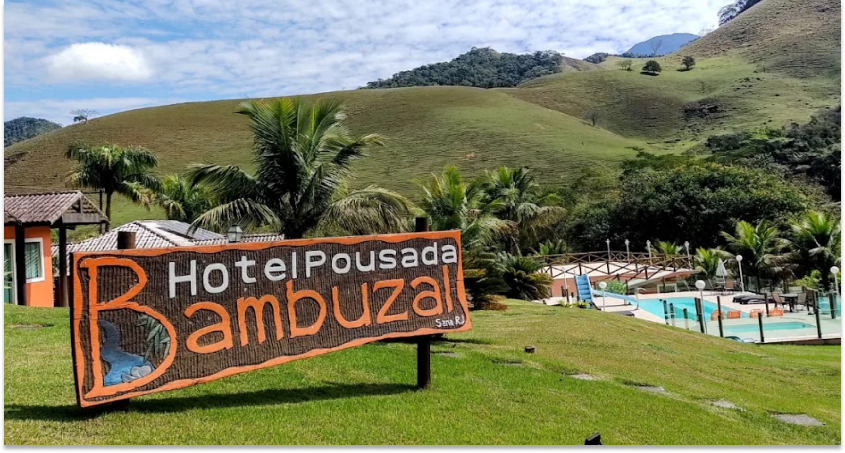
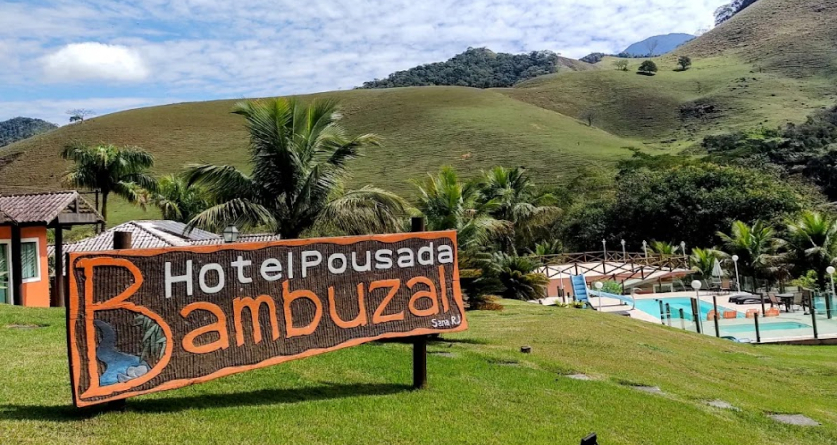
resize images

diff --git a/src/components/About.jsx b/src/components/About.jsx
@@ -44,7 +44,7 @@ export default function About() {
           </div>
         </div>
 
-        <div style={{display:'flex', justifyContent:'space-around', marginTop:'-5px', marginRight:'38px', left: 0 }}>
+        <div style={{display:'flex', justifyContent:'space-around', marginTop:'-65px' }}>
           <Card sx={{ width: 980, display:'flex', mt:2, borderRadius:'18px' }}>
             <CardMedia
             sx={{objectFit:'cover'}}
